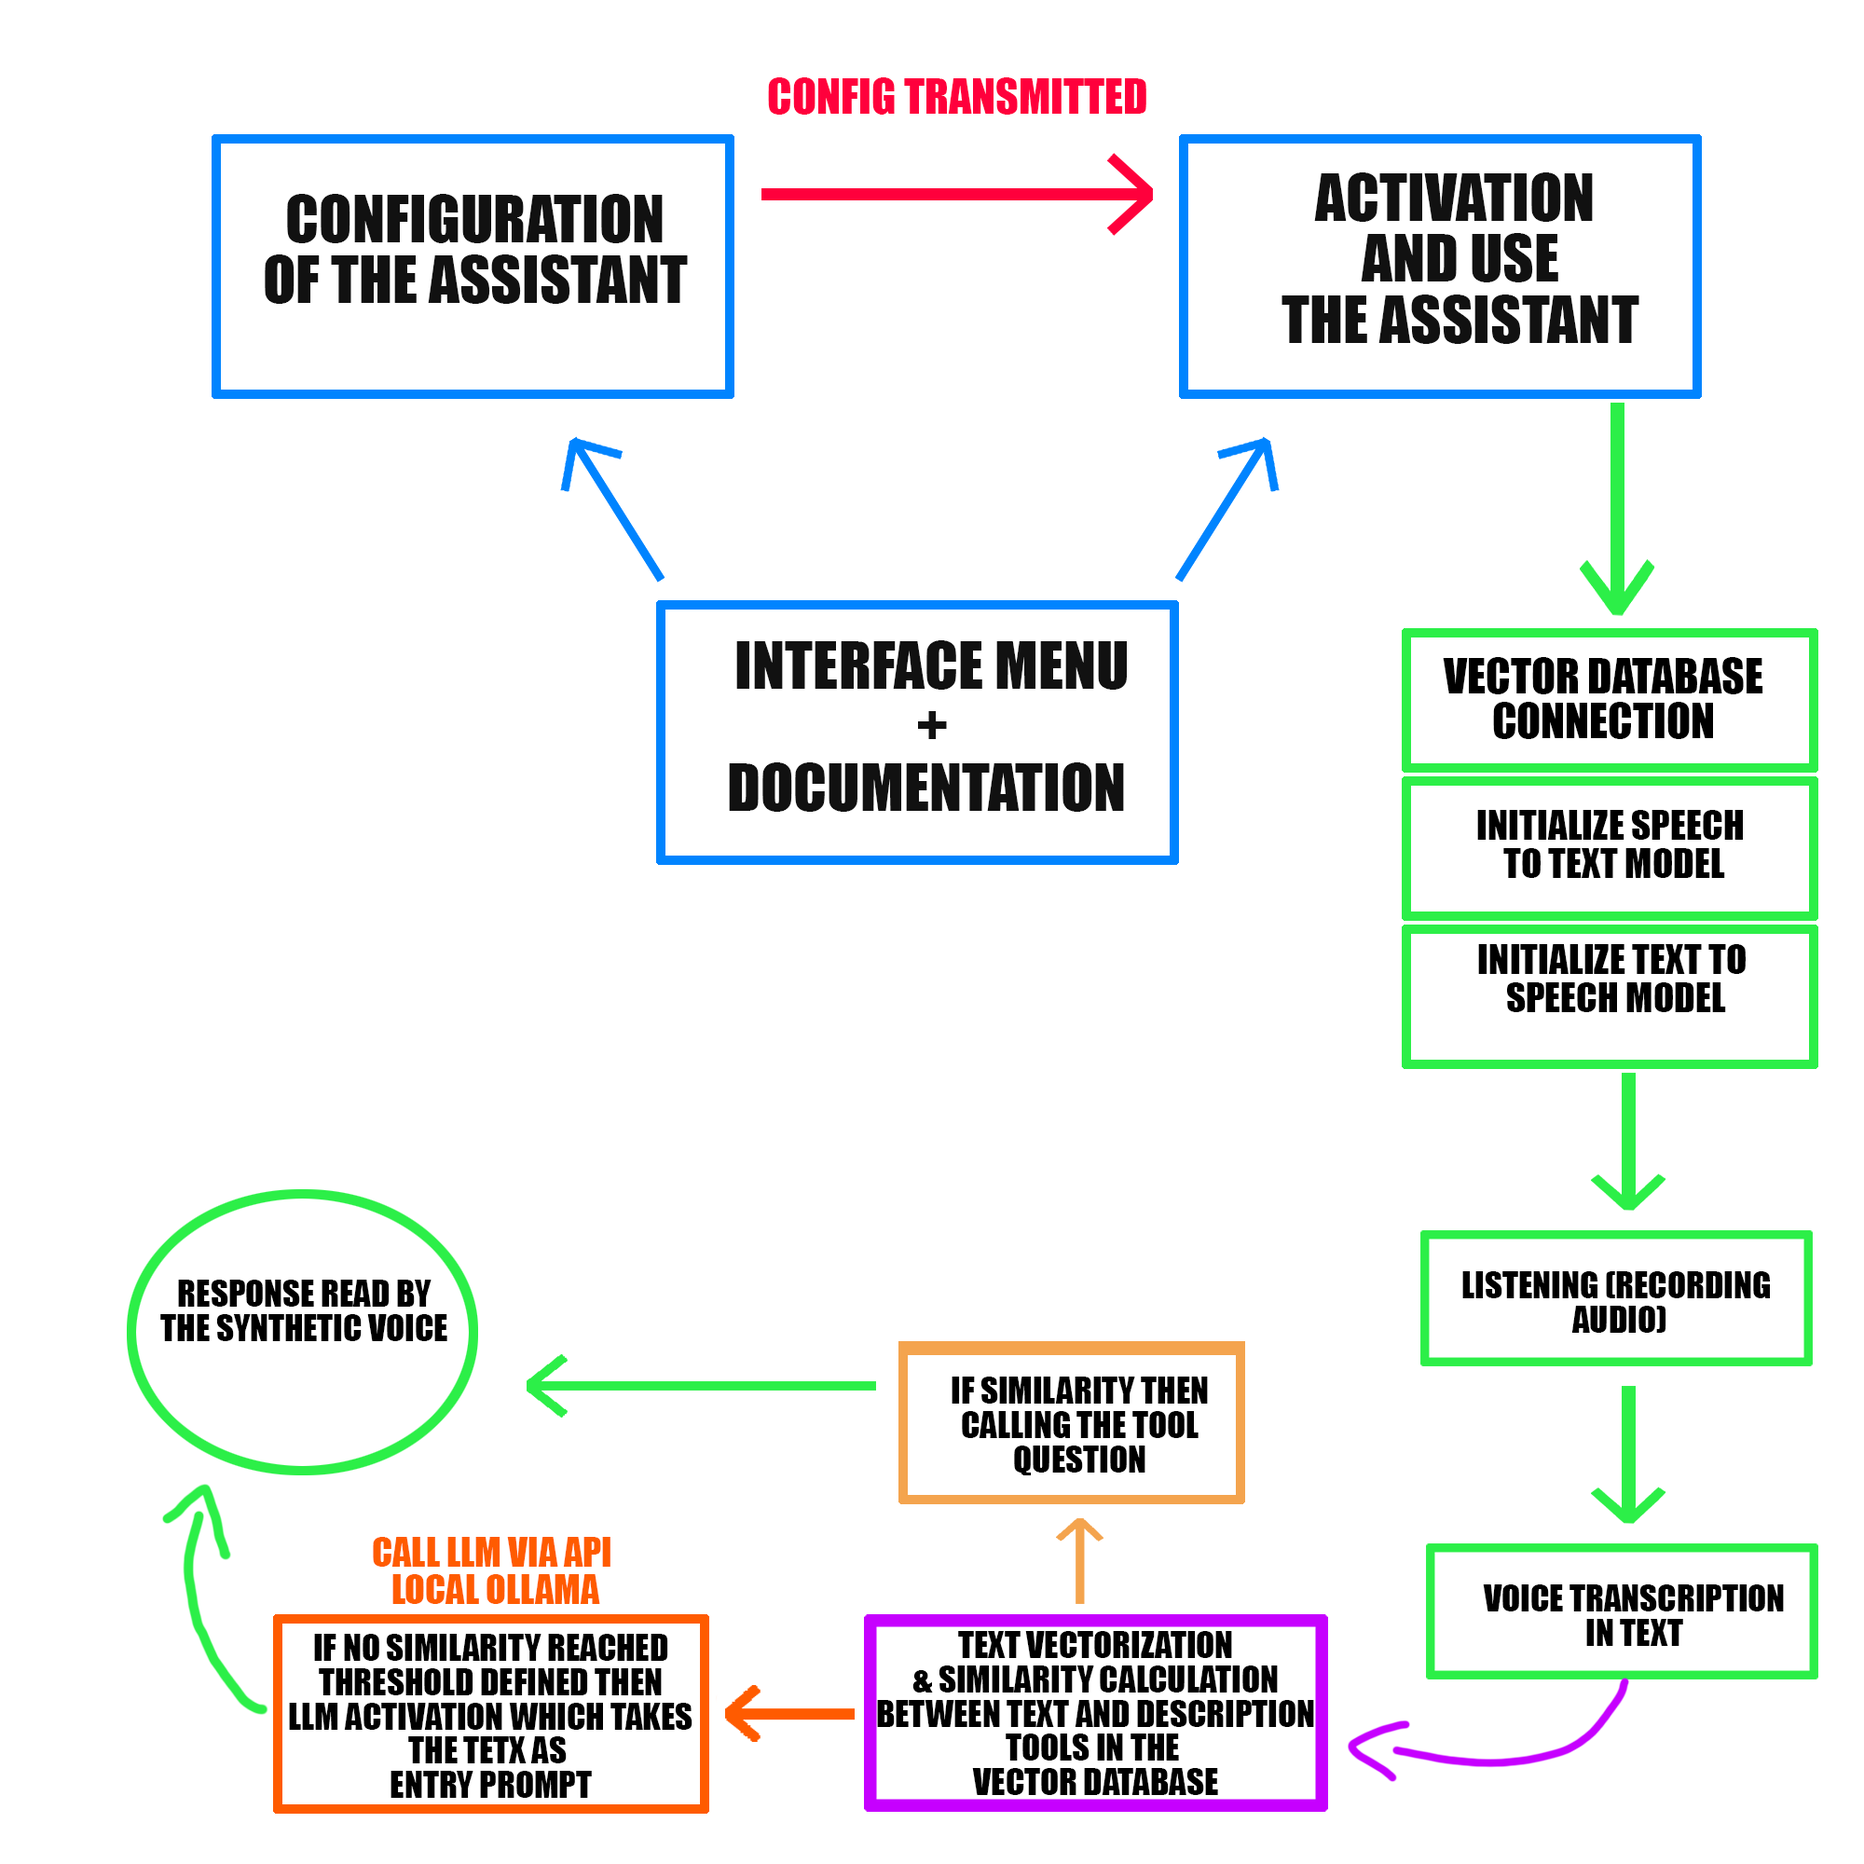
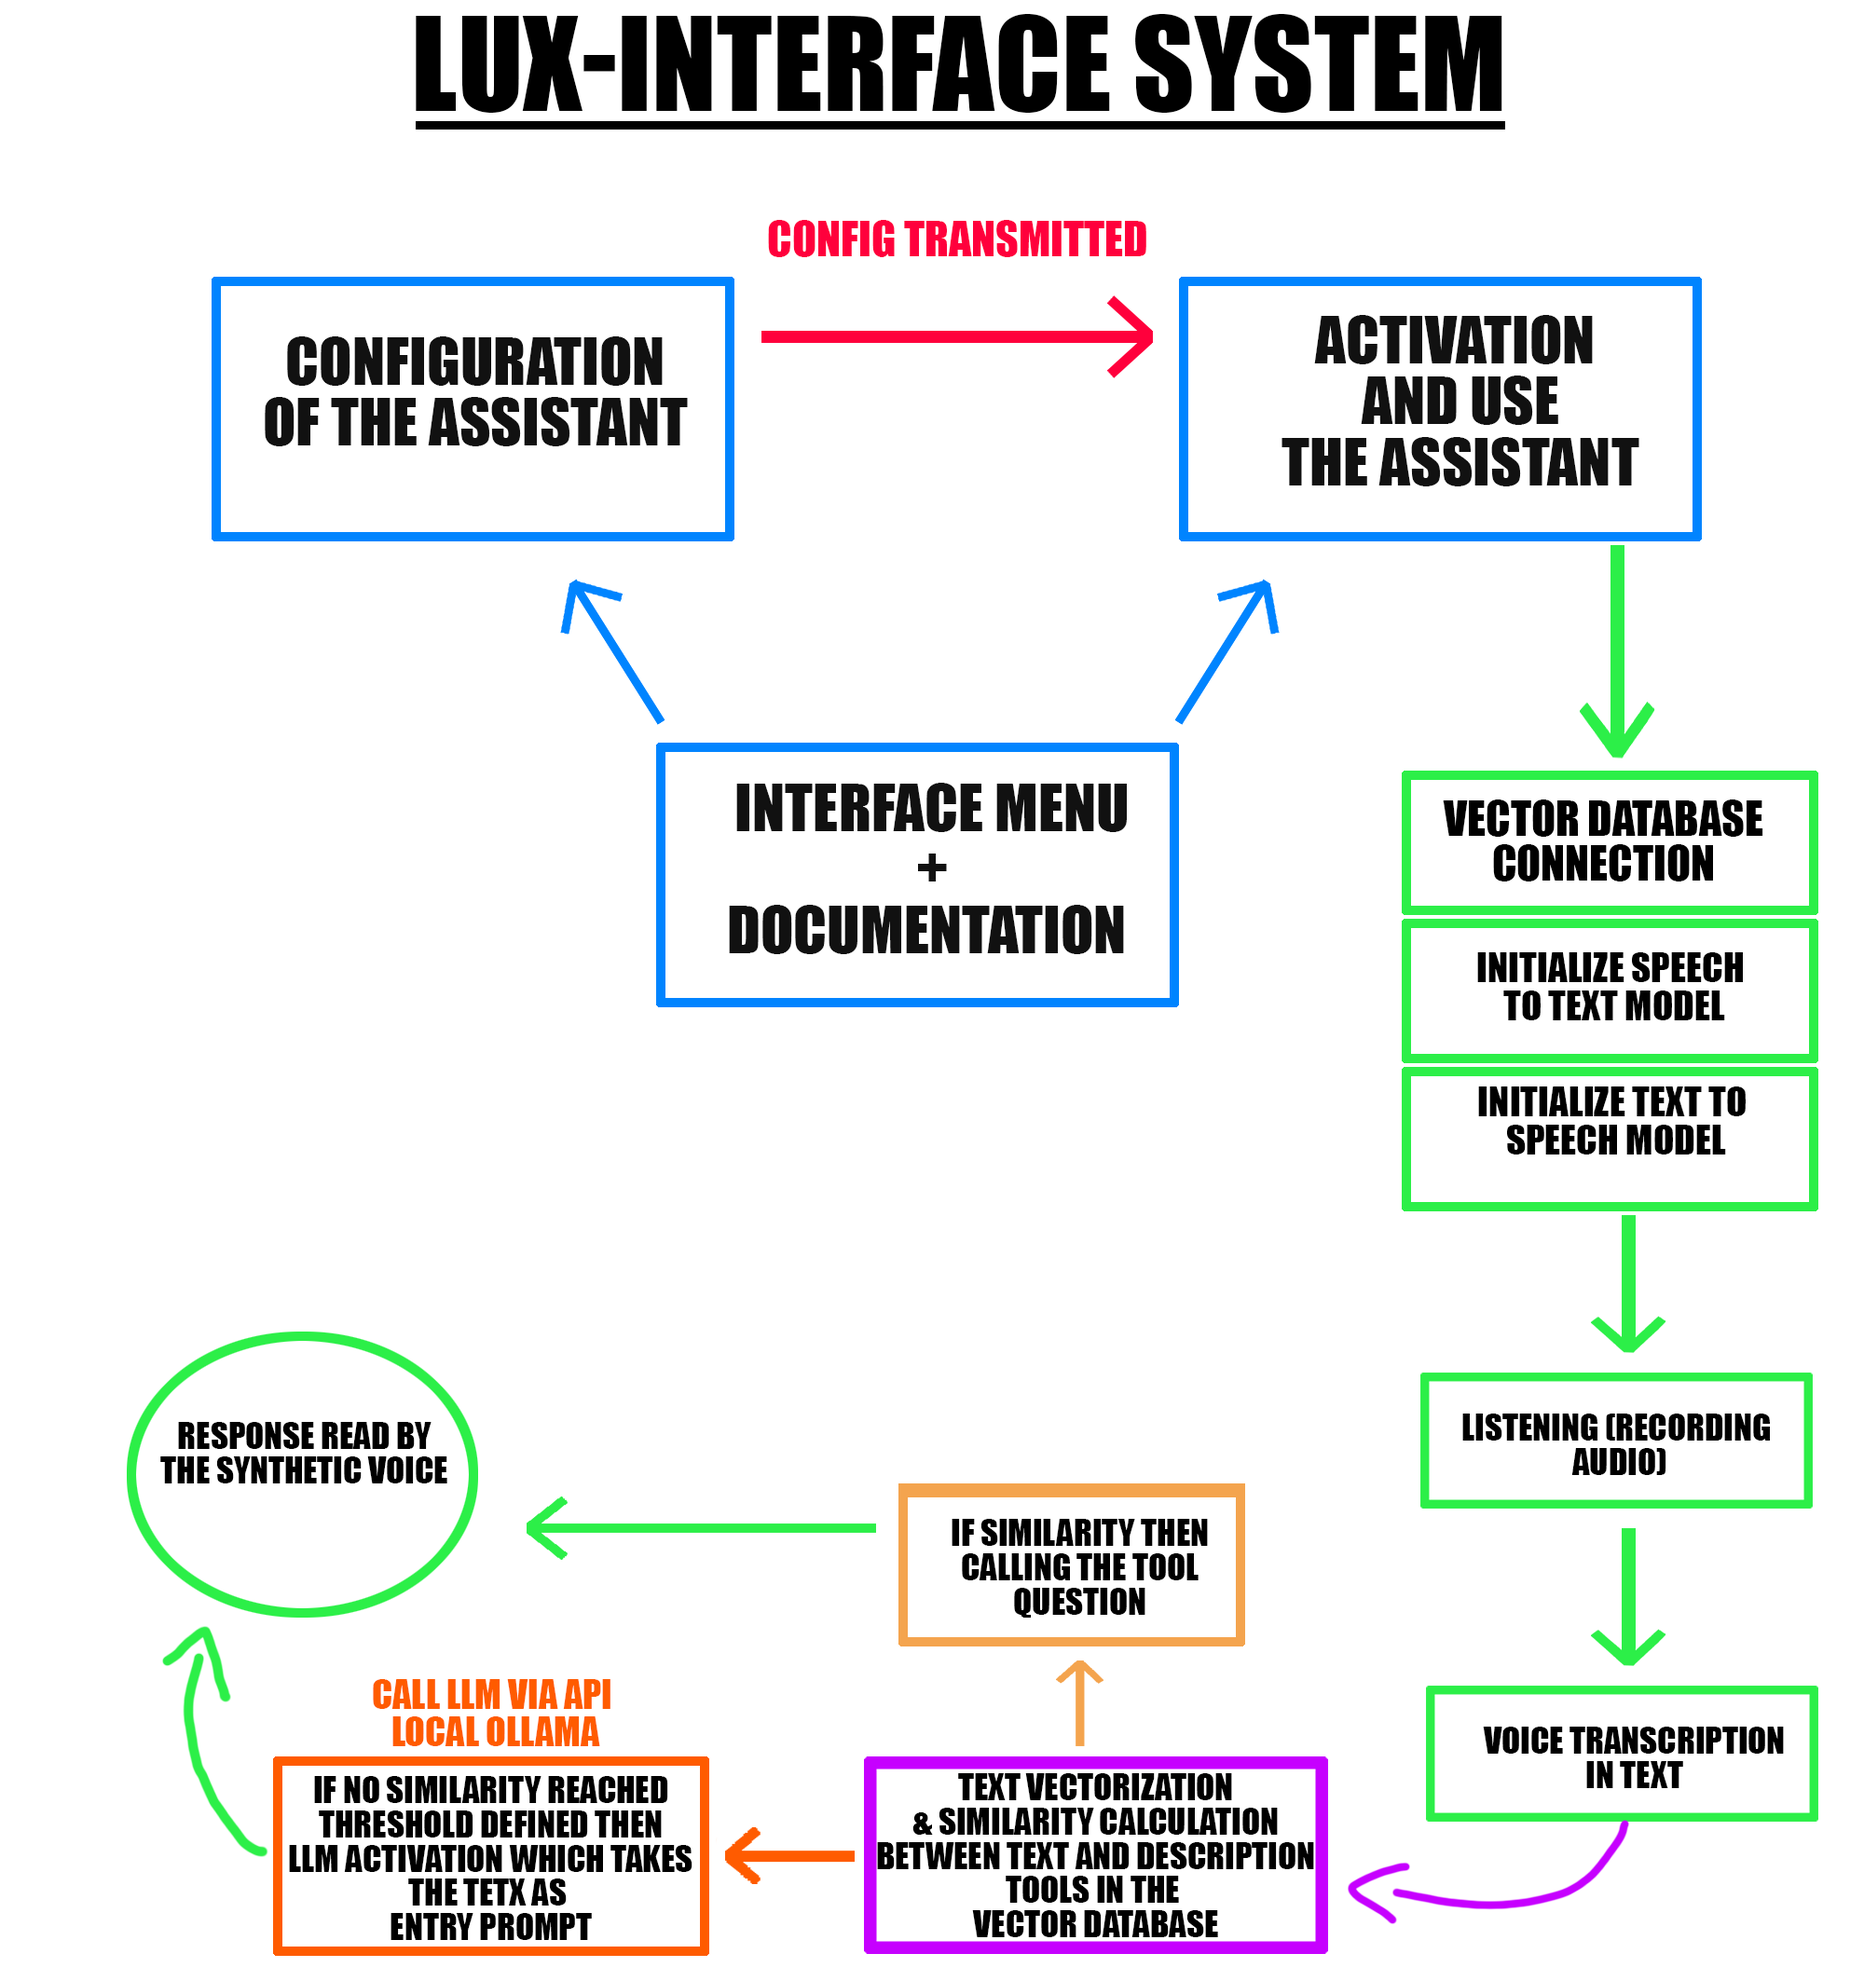
Improve readme

Changed region(s): [[0.093, 0.0, 0.93, 0.527], [0.062, 0.62, 0.992, 0.992], [0.744, 0.31, 0.992, 0.775]]

diff --git a/README.md b/README.md
@@ -1,16 +1,46 @@
-# Lux-Interface
+# Lux Project
 
-Interface of Lux assistant which has a speech to text to transcribe your voice into text, a RAG system on tools to use tools according to the user's prompt and finally a voice cloning system allowing you to do text to speech on a customizable voice that you choose (or you can keep the voice that is already cloned and used by default in the kernel).
-
-
-## Installation
-
-=> Click on Lux-Interface-Installer.exe to download the app (be careful to install the necessary applications in Tech Stack).
-
-=> Afterwards you click on lux-interface.exe to build environment for the app.
+Welcome to the **Lux Project**! This project aims to provide a powerful and flexible assistant for all users (using the version accessible to all who are Lux-Interface) but also for developers (using the Lux-Kernel versions here) allowing developers to use this as a basis to build whatever they want with.
 
 
-## Architecture System
+## 🖥 Lux Interface
+
+The **Lux Interface** is designed for end-users who may not be developers. It provides a user-friendly interface to configure and personalize the assistant without using command lines.
+
+The interface is user-friendly and allow to:
+- Configure the system.
+- Import different tools.
+- Run the asssitant.
+
+
+## 🛠 Lux Kernel
+
+The **Lux Kernel** is designed for developers and consists of two main components:
+
+1. **Synthetic Cloned Voice Kernel**: A text-to-speech system using cloned synthetic voices (*requires high-performance hardware to use this system*), here we use *CoquiTTS*.
+2. **Synthetic Narrator Voice Kernel**: A text-to-speech system using a windows narrator's voice.
+
+The Lux Kernels also includes:
+- **Speech-to-Text**: Convert spoken words into text, using *Whisper large v3*.
+- **Intelligent Tool Selection System**: Using a RAG system to select tools based on user prompts, using *sklearn* for similarity & *ChromaDB* for vector database.
+- **Inspired by Linux Kernel**: A flexible and small assistant core to allow developers to create various features with it and be able to use it as a base.
+
+
+## 🚀 Installation
+
+1. **Download the App**:
+   - Click on `Lux-Interface-Installer.exe` to download the app.
+   - Ensure to install the necessary applications in the *Tech Stack*.
+
+2. **Build the Environment**:
+   - Click on `lux-interface.exe` to build the environment for the app.
+
+
+## 🏗 System Architecture
+
+Here are the system architecture diagrams for the Lux project:
+
+<img src="interface/ressources/schema-system-architecture/lux-global-architecture-project.png" alt="Lux Global Architecture of the project" width="400"/>
 
 <img src="interface/ressources/schema-system-architecture/lux-interface-architecture-system.png" alt="Lux-Interface Architecture System" width="400"/>
 
